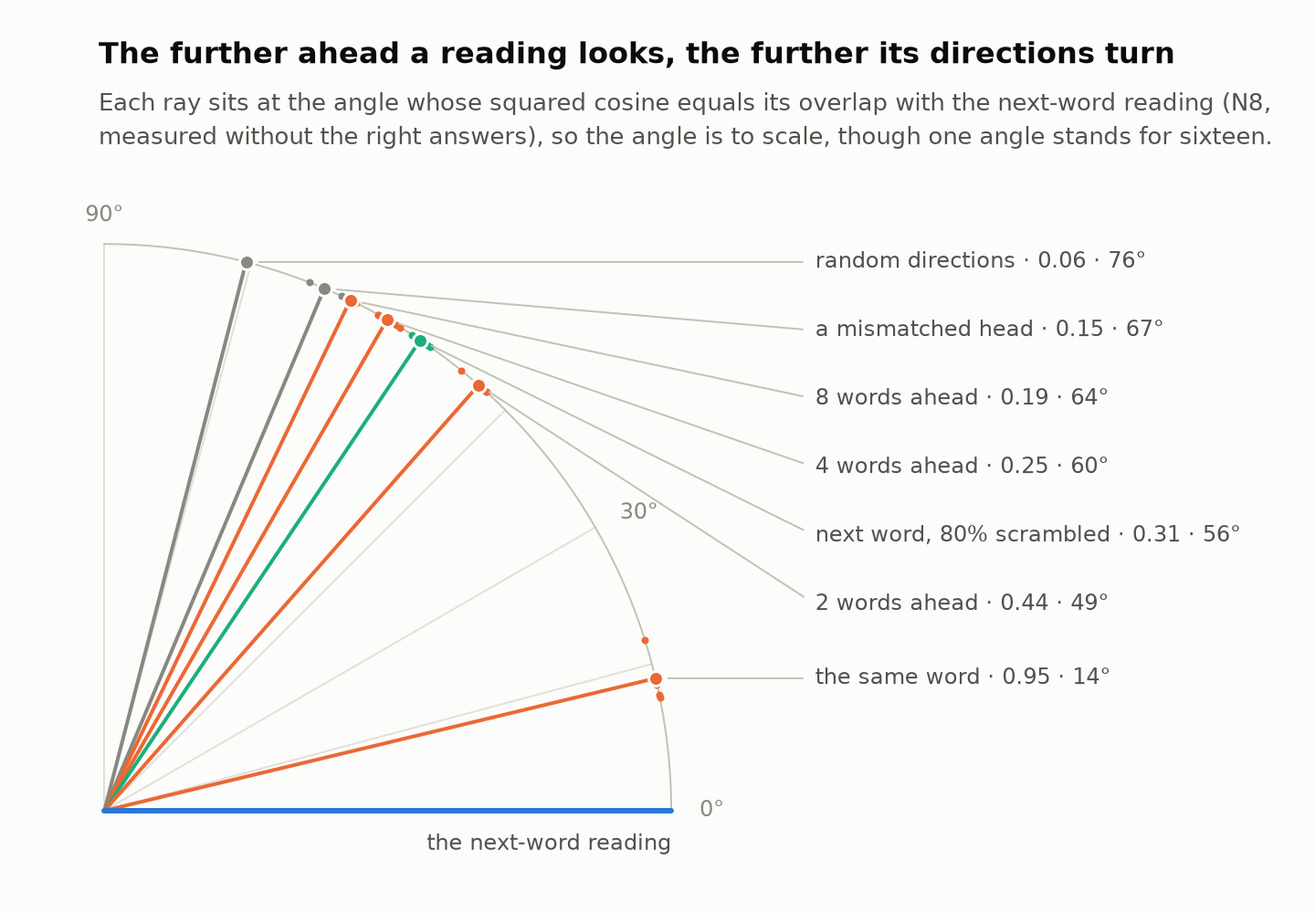
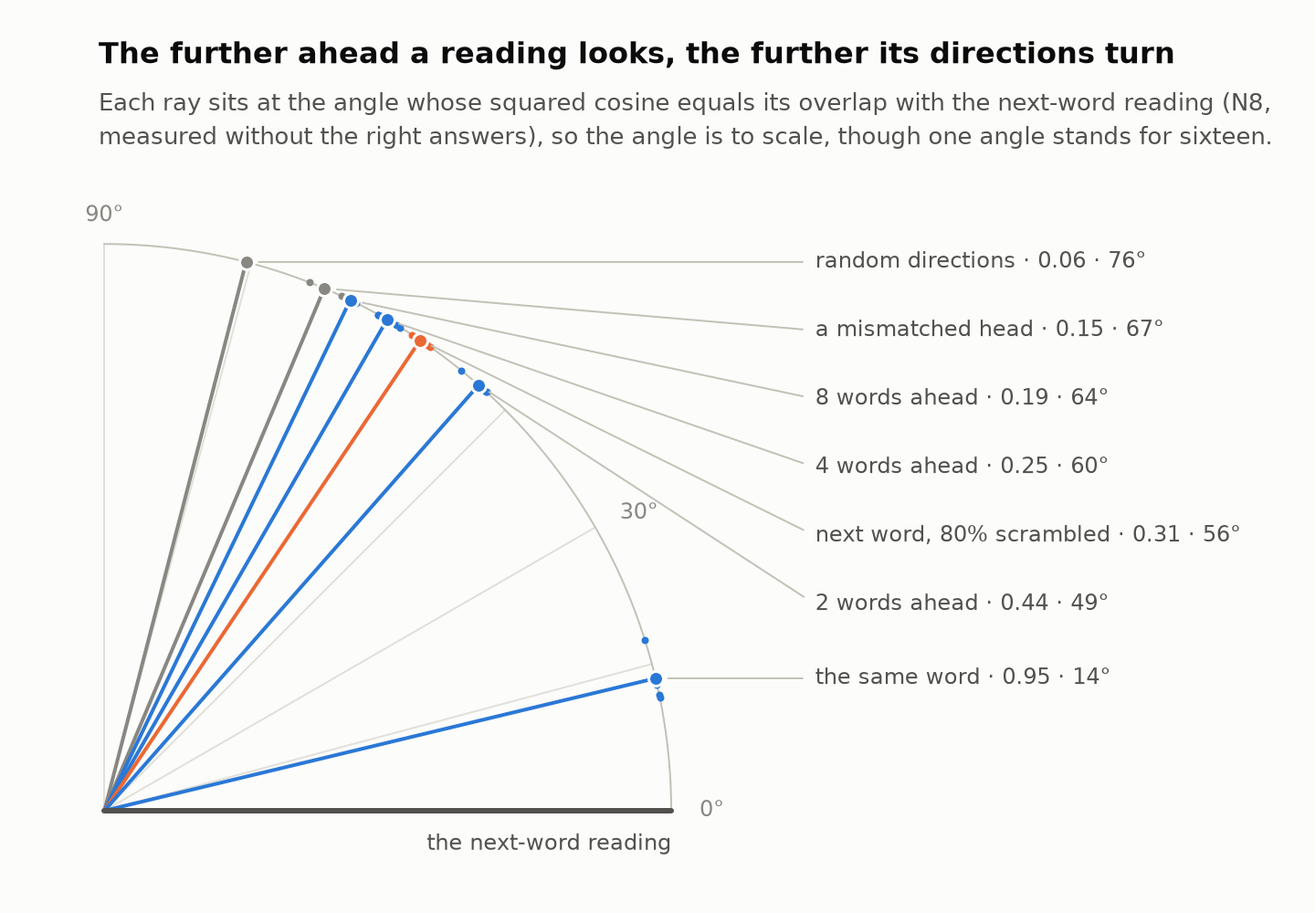
Correct figures 4 to 10 after a fresh reader's check; show them in the README
A fresh reader checked the new figures against the notes. Corrections:

- Figure 5: only G1, G1c and G1d added a control signal into the flow;
  N2's model had none. The bend and per-reading pull "differed only
  slightly", as the notes say, not "did not differ".
- Figure 4: scoped to the budget it was measured at, with the
  full-budget gap (1.10 nats) and the paper's refuted claims stated.
- Figure 8: no longer says the scrambled answers took back "most of the
  loop's cost"; N18 cannot say how much of that step is the loop
  tempered, and step sizes depend on their order.
- Figure 7: d is now computed within each run, as n18_analyze.py does
  (-0.181, -0.290, -0.457, matching N18_RESULTS.md) and marked S8,
  secondary. The loop-free line is "genuine answers at 20% to 1.25% of
  positions". The title no longer runs off the image.
- Figure 9: "verdicts in the ledger's main rows", naming what the
  ledger leaves out. Verdict words are mapped explicitly, and an
  unknown word or a range of tests now stops the script.
- Figure 10: the paper's refuted claims get a piece, modal words are
  kept ("not needed, by this test"), N10 and N11 join the N7-N9 piece,
  the N14 piece names N14a, half pieces are drawn half-filled, and the
  tilted pieces no longer run off the board. Threads 3 and 4 no longer
  misstate N2's setup or call the clean-head judge a remedy.
- Figure 6 uses figure 1's colours.

README: the seven figures, in light and dark versions, at the end of
[…]

diff --git a/experiments/simultaneity-conjecture/make_figures.py b/experiments/simultaneity-conjecture/make_figures.py
@@ -202,6 +202,11 @@ def judge_data():
     return out
 
 
+def d_within(J, a):
+    """N18's d (S8): within each run, F minus the loop-free line through that run's rungs at the judge's x; the mean over runs."""
+    return st.mean(J[s][a]['F'] - line_at(sorted((J[s][r]['x'], J[s][r]['F']) for r, _ in LINE), J[s][a]['x']) for s in SEEDS12)
+
+
 def line_at(pts, xv):
     """The loop-free line through the rung means, read at x (None outside it)."""
     for (x0, y0), (x1, y1) in zip(pts, pts[1:]):
@@ -215,9 +220,16 @@ KIND = {'supported': ('good', '✓', 'Supported'), 'refuted': ('critical', '✕'
 CHAPTERS = ('The paper', 'Ch. 1: the flow', 'Ch. 2: directions', 'Ch. 3: different or harder', 'Ch. 4: scrambled answers, the judge')
 
 
+VERDICT_WORDS = (('untestable', 'untestable'), ('refuted', 'refuted'), ('supported', 'supported'), ('inconclusive', 'inconclusive'),
+                 ('intermediate', 'unclear'), ('size unclear', 'unclear'))
+
+
 def kind_of(verdict):
     v = verdict.lower()
-    return next((k for k in ('untestable', 'refuted', 'supported', 'inconclusive') if k in v), 'unclear')
+    for word, kind in VERDICT_WORDS:
+        if word in v:
+            return kind
+    raise ValueError(f'a verdict make_figures.py does not know how to draw: {verdict!r}')
 
 
 def chapter_of(test):
@@ -230,22 +242,27 @@ def chapter_of(test):
 
 
 def ledger_data():
-    """(test, kind) in the ledger's order. A row naming two tests counts for each; N15, withdrawn, is kept as None."""
+    """(test, kind) in the ledger's order, and the tests taken from a note because the ledger lacks them. A row naming
+    two tests counts for each; N15, withdrawn, is kept as None."""
     section = (HERE / 'CRITICAL_REVIEW.md').read_text().split('## The ledger', 1)[1].split('\n## ', 1)[0]
     rows = []
     for line in section.splitlines():
         cells = [x.strip() for x in line.strip().strip('|').split('|')]
-        if len(cells) < 4 or not re.match(r'(WikiText|T\d|G1|N\d)', cells[0]):
+        if len(cells) < 4 or not re.match(r'(WikiText|T\d|G\d|N\d)', cells[0]):
             continue
         bold = re.search(r'\*\*(.+?)\*\*', cells[-1])
         name = {'WikiText-2 replication': 'WT-2', 'WikiText-103': 'WT-103'}.get(cells[0], cells[0])
+        if '–' in name or '-' in name.replace('WT-', ''):
+            raise ValueError(f'a ledger row naming a range of tests: {name!r}; list them, separated by commas')
         rows += [(t, kind_of(bold.group(1) if bold else cells[-1])) for t in name.split(', ')]
+    added = []
     if 'N18a' not in dict(rows):
         rows.append(('N18a', kind_of(re.search(r'\*\*N18a: (\w+)', (HERE / 'N18_NOTE.md').read_text()).group(1))))
+        added.append('N18a')
     if 'N15' not in dict(rows):
         at = max(i for i, (t, _) in enumerate(rows) if t.startswith('N14')) + 1
         rows.insert(at, ('N15', None))
-    return rows
+    return rows, added
 
 
 # ------------------------------------------------------------------ figures
@@ -415,15 +432,15 @@ def fig_shortcut(c, d):
     ax.set_yticks(ys); ax.set_yticklabels([r[1] for r in rows])
     ax.get_yticklabels()[0].set_fontweight('bold')
     ax.set_xlabel('Loss gap on held-out text (nats)', color=c['ink2'], fontsize=9.5)
-    titles(fig, c, 'Most of the paper\'s gap came from a training shortcut',
-           'Model A against the baseline at a tenth of the WikiText-103 budget, five-run means (T1). The first\nthree pieces add up to the whole gap; the missing weights are a separate contrast.')
+    titles(fig, c, 'Most of Model A\'s gap at this budget came from the training shortcut',
+           'Model A against the baseline at a tenth of the WikiText-103 budget, five-run means (T1); at the full\nbudget the gap was 1.10 nats. The first three pieces add up to the whole gap; the missing weights\nare a separate contrast. The paper\'s refuted claims stay refuted.')
     return fig
 
 
 def fig_flow(c, d):
     rows = (('G1', 'Curvature (G1)'), ('N2', 'Pull, per reading (N2)'), ('G1c', 'Pull, whole state (G1c)'))
     fig, ax = figure(c, h=3.6)
-    fig.subplots_adjust(left=0.24, right=0.96, top=0.7, bottom=0.17)
+    fig.subplots_adjust(left=0.24, right=0.96, top=0.64, bottom=0.17)
     ax.set_xscale('log', base=2); ax.set_xlim(0.9, 12); ax.set_ylim(2.6, -0.6)
     ax.axvspan(0.9, 1.25, color=c['critical'], alpha=0.08, linewidth=0, zorder=0)
     for v, s, ha in ((1.25, 'refuted below 1.25 ', 'right'), (2, ' predicted 2', 'left')):
@@ -436,15 +453,15 @@ def fig_flow(c, d):
     ax.spines['left'].set_visible(False)
     ax.set_xticks([1, 2, 4, 8]); ax.set_xticklabels(['1×', '2×', '4×', '8×']); ax.minorticks_off()
     ax.set_xlabel('Ratio between the two readings, one dot per model (1 = no difference)', color=c['ink2'], fontsize=9.5)
-    titles(fig, c, 'Here, the flow\'s bend and per-reading pull did not differ as predicted',
-           f'Over the whole state the pull did differ, 4 to 10 times; capping it cost the farther task no more\nthan the nearer (G1d: {sgn(st.mean(d["G1d"]))} nats). With the control added into the flow, at a tenth of the training.')
+    titles(fig, c, 'The flow\'s bend and per-reading pull differed only slightly, not twice',
+           f'Over the whole state the pull did differ, 4 to 10 times (G1c); capping it cost the farther task no\nmore than the nearer (G1d: {sgn(st.mean(d["G1d"]))} nats). G1, G1c and G1d added a control signal into the\nflow; N2\'s model had none. All at a tenth of the training budget.')
     return fig
 
 
 def fig_angles(c, data):
     ladder, noisy, rand, rotated = data
-    items = [('the same word', ladder[1], c['s2']), ('2 words ahead', ladder[2], c['s2']), ('4 words ahead', ladder[4], c['s2']),
-             ('8 words ahead', ladder[8], c['s2']), ('next word, 80% scrambled', noisy, c['s3']),
+    items = [('the same word', ladder[1], c['s1']), ('2 words ahead', ladder[2], c['s1']), ('4 words ahead', ladder[4], c['s1']),
+             ('8 words ahead', ladder[8], c['s1']), ('next word, 80% scrambled', noisy, c['s2']),
              ('a mismatched head', rotated, c['muted']), ('random directions', [rand], c['muted'])]
     ang = lambda o: math.acos(math.sqrt(o))
     fig = plt.figure(figsize=(7.2, 5.0), dpi=DPI_DISPLAY)
@@ -458,7 +475,7 @@ def fig_angles(c, data):
             ax.text(1.05 * math.cos(r), 1.05 * math.sin(r), f'{deg}°', color=c['muted'], fontsize=8.5, ha='left' if deg < 90 else 'center', va='center')
     t = np.linspace(0, math.pi / 2, 200)
     ax.plot(np.cos(t), np.sin(t), color=c['axis'], linewidth=1 * PX, zorder=1)
-    ax.plot([0, 1], [0, 0], color=c['s1'], linewidth=3 * PX, solid_capstyle='round', zorder=3)
+    ax.plot([0, 1], [0, 0], color=c['ink2'], linewidth=3 * PX, solid_capstyle='round', zorder=3)
     ax.text(1.0, -0.04, 'the next-word reading', color=c['ink2'], fontsize=8.5, ha='right', va='top')
     fig.canvas.draw()
     to_fig = lambda x, y: fig.transFigure.inverted().transform(ax.transData.transform((x, y)))
@@ -482,14 +499,14 @@ def fig_angles(c, data):
 
 def fig_judges(c, J):
     fig, ax = figure(c, h=5.2)
-    fig.subplots_adjust(left=0.1, right=0.97, top=0.79, bottom=0.12)
+    fig.subplots_adjust(left=0.1, right=0.97, top=0.77, bottom=0.12)
     m = lambda a, k: st.mean(J[s][a][k] for s in SEEDS12)
     pts = [(m(a, 'x'), m(a, 'F')) for a, _ in LINE]
     ax.set_xlim(-0.03, 0.88); ax.set_ylim(-1.4, 1.3)
     ax.axhline(0, color=c['axis'], linewidth=1 * PX, zorder=1)
     lab = dict(color=c['ink2'], fontsize=8.5)
     ax.plot(*zip(*pts), color=c['ink2'], linewidth=2 * PX, solid_joinstyle='round', zorder=2,
-            label='Full weight on 20% to 1.25% of genuine answers: the loop-free line')
+            label='The loop-free line: full weight, genuine\nanswers at 20% to 1.25% of positions')
     ax.scatter(*zip(*pts), s=(6 * PX) ** 2, color=c['ink2'], zorder=3)
     for (x, y), (_, s) in zip(pts, LINE):
         ax.text(x + 0.012, y + 0.05, s, ha='left', va='bottom', **lab)
@@ -502,7 +519,7 @@ def fig_judges(c, J):
             ax.plot([x, x], [ln, y], color=c['muted'], linewidth=1 * PX, zorder=1)
         ax.scatter([J[s][a]['x'] for s in SEEDS12], [J[s][a]['F'] for s in SEEDS12], s=(4 * PX) ** 2, color=col, alpha=c['faint'], linewidths=0, marker=mk, zorder=3)
         ax.scatter([x], [y], s=(9 * PX) ** 2, color=col, edgecolors=c['surface'], linewidths=2 * PX, marker=mk, zorder=4)
-    d = lambda a: m(a, 'F') - line_at(pts, m(a, 'x'))
+    d = lambda a: d_within(J, a)
     lead = dict(arrowstyle='-', color=c['muted'], linewidth=1 * PX, shrinkA=2, shrinkB=6)
     ax.text(m('rw-oracle', 'x') + 0.02, m('rw-oracle', 'F'), 'the clean head judges (N16)', va='center', **lab)
     for i, (a, txt) in enumerate((('rw-ctwin', f'weighted by a loop-free twin · d = {sgn(d("rw-ctwin"), 2)}'),
@@ -517,8 +534,8 @@ def fig_judges(c, J):
     ax.legend(loc='lower left', frameon=False, fontsize=8.5, labelcolor=c['ink2'], handletextpad=0.4, borderaxespad=0.6)
     ax.set_xlabel('The judge\'s own loss gap behind the clean head (nats)', color=c['ink2'], fontsize=9.5)
     ax.set_ylabel('Share of the shortfall its head recovered', color=c['ink2'], fontsize=9.5)
-    titles(fig, c, 'On genuine answers alone, the self-weighting judge fell furthest below the line',
-           'Five-run means (N18); faint marks are the runs. d is each judge\'s distance below the line. The\nloop-free twin fell below it too, by less. The peer\'s judge also weights itself, on scrambled answers.')
+    titles(fig, c, 'The self-weighting judge fell furthest below the loop-free line',
+           'Five-run means (N18); faint marks are the runs. d is the distance below the line within each run (S8,\nsecondary). The loop-free twin fell below it too, by less. The peer\'s judge also weights itself, on\nscrambled answers; the self-weighting judge trained on genuine answers only.')
     return fig
 
 
@@ -542,14 +559,15 @@ def fig_steps(c, J):
         t.set_fontweight('bold')
     ax.set_xlabel('Head B\'s gap behind the clean head on the genuine answers (Δ_A, nats)', color=c['ink2'], fontsize=9.5)
     titles(fig, c, f'On genuine answers alone, the loop cost about twice the peer\'s gap',
-           f'Five-run means (N18). The peer\'s gap: {peer:.2f} − {j20:.2f} = {peer - j20:.2f} nats. The run does not show that the\npeer\'s own gap is the loop\'s: adding the scrambled answers took most of the loop\'s cost back.')
+           f'Five-run means (N18). The peer\'s gap: {peer:.2f} − {j20:.2f} = {peer - j20:.2f} nats. Each step\'s size depends on\nthe steps before it. Adding the scrambled answers lowered the gap by {cl - peer:.2f} nats; N18 cannot\nsay how much of that is the loop tempered, nor that the peer\'s own gap is the loop\'s.')
     return fig
 
 
-def fig_ledger(c, rows):
-    fig = plt.figure(figsize=(7.2, 3.6), dpi=DPI_DISPLAY)
+def fig_ledger(c, led):
+    rows, added = led
+    fig = plt.figure(figsize=(7.2, 3.8), dpi=DPI_DISPLAY)
     fig.patch.set_facecolor(c['surface'])
-    ax = fig.add_axes([0.03, 0.03, 0.94, 0.6])
+    ax = fig.add_axes([0.03, 0.03, 0.94, 0.55])
     ax.axis('off')
     n = max(sum(chapter_of(t) == g for t, _ in rows) for g in range(len(CHAPTERS)))
     ax.set_xlim(-13.2, n + 0.2); ax.set_ylim(len(CHAPTERS) * 1.3, -0.2); ax.set_aspect('equal'); ax.set_anchor('N')
@@ -566,7 +584,7 @@ def fig_ledger(c, rows):
             ax.text(i + 0.45, y, glyph, color='#0b0b0b' if k == 'unclear' else '#ffffff', fontsize=8, fontweight='bold', ha='center', va='center')
     counts = {k: sum(kk == k for _, kk in rows) for k in KIND}
     renderer = fig.canvas.get_renderer()
-    x, y = 0.075, 0.735
+    x, y = 0.075, 0.69
     for k, (col, glyph, name) in KIND.items():
         t = fig.text(x + 0.02, y, f'{glyph} {name} · {counts[k]}', color=c['ink2'], fontsize=8.5, va='center')
         w = t.get_window_extent(renderer).width / fig.bbox.width
@@ -575,23 +593,24 @@ def fig_ledger(c, rows):
             t.set_position((x + 0.02, y))
         fig.patches.append(plt.Rectangle((x, y - 0.013), 0.014, 0.026, transform=fig.transFigure, facecolor=c[col], edgecolor='none'))
         x += 0.02 + w + 0.03
-    titles(fig, c, f'{sum(counts.values())} preregistered verdicts, in order',
-           'Every verdict in CRITICAL_REVIEW.md\'s ledger, with N18a; a row naming two tests counts for each.\nN15, withdrawn before its real run, is drawn hollow and not counted.')
+    extra = f', with {" and ".join(added)} from {"its note" if len(added) == 1 else "their notes"}' if added else ''
+    titles(fig, c, f'{sum(counts.values())} verdicts in the ledger\'s main rows, in order',
+           f'The main claims in CRITICAL_REVIEW.md\'s ledger{extra}; secondary claims and T1\'s rivals are in the\nnotes. A row naming two tests counts for each. WT-2 is "mostly refuted". N15, withdrawn before its\nreal run, is drawn hollow and not counted.')
     return fig
 
 
 # The imagined jigsaw: each piece a finding (glued where its verdict decided something, half where it decided part,
 # loose where it did not), the empty centre the project's starting idea, and four imagined threads. Nothing here is measured.
-PIECES = {(0, 0): ('The shortcut, not the design', 'T1', 'glued'), (0, 1): ('The flow differs a little, not twice', 'G1, N2', 'glued'),
-          (0, 2): ('The flow’s pull: real, not needed', 'G1c, G1d', 'glued'), (0, 3): ('A fixed shift suffices to switch', 'N1', 'glued'),
+PIECES = {(0, 0): ('The paper refuted; the gap mostly the shortcut', 'WT-2, WT-103, T1', 'glued'), (0, 1): ('The flow differs a little, not twice', 'G1, N2', 'glued'),
+          (0, 2): ('The flow’s pull: real; not needed, by this test', 'G1c, G1d', 'glued'), (0, 3): ('A fixed shift suffices to switch', 'N1', 'glued'),
           (1, 0): ('Sharing directions costs accuracy', 'N4', 'glued'), (1, 3): ('Why apart? a competition?', 'N5', 'loose'),
-          (2, 0): ('Further ahead, more separate', 'N6r', 'glued'), (2, 3): ('Not a noisy copy: a different reading', 'N7–N9', 'glued'),
-          (3, 0): ('The remedy weighs each answer', 'N12, N13', 'glued'), (3, 1): ('Directions follow accuracy?', 'N14, N16d', 'loose'),
+          (2, 0): ('Further ahead, more separate', 'N6r', 'glued'), (2, 3): ('Not a noisy copy: a different reading', 'N7–N11', 'glued'),
+          (3, 0): ('The remedy weighs each answer', 'N12, N13', 'glued'), (3, 1): ('Directions follow accuracy?', 'N14a, N16d', 'loose'),
           (3, 2): ('Who judges matters', 'N16', 'glued'), (3, 3): ('A judge that grades itself', 'N17, N18', 'half')}
 THREADS = (((2, 0), 'C', 'Two readings already behave a little like separate voices: the further ahead a reading looks, the less its directions overlap the next-word reading’s, and forcing them together costs accuracy. A many-voiced model might hold each voice in directions of its own.'),
            ((2, 3), (3, 3), 'A head trained on scrambled answers came to read differently, not as a noisy copy of the right reading; a judge that weights its own training is a head shaping its own answers. Perhaps the two are one phenomenon seen twice.'),
-           ((0, 1), (1, 0), 'At this scale, with the control added into the flow, the readings did not show in how the flow bends or how fast it pulls along each reading’s directions. If they live anywhere here, it may be in which directions each one uses.'),
-           ((3, 2), 'C', 'The best remedy tested let the clean head judge which answers were genuine (N16), and a judge weighting its own training did harm (N18a); whether independence or accuracy helped is not separated. Perhaps many readings could check one another.'))
+           ((0, 1), (1, 0), 'At this scale the flow’s bend and per-reading pull differed only slightly (G1, N2), and its 4- to 10-fold difference in whole-state pull was not needed (G1c, G1d). If the readings live anywhere here, it may be in which directions each one uses.'),
+           ((3, 2), 'C', 'With the clean head as judge, a diagnostic rather than a method, the shortfall closed (N16); a judge weighting its own training did harm when it trained on genuine answers alone (N18a). Whether independence or accuracy helped is not separated. Perhaps many readings could check one another.'))
 
 
 def mix(a, b, t):
@@ -605,8 +624,8 @@ def fig_jigsaw(c):
     W, H = gx * 2 + cell * 4, gy * 2 + ch * 4
     fig = plt.figure(figsize=(7.2, 9.4), dpi=DPI_DISPLAY)
     fig.patch.set_facecolor(c['surface'])
-    ax = fig.add_axes([0.07, 0.325, 0.86, 0.86 * 7.2 / 9.4 * H / W])
-    ax.set_xlim(0, W); ax.set_ylim(H, 0); ax.axis('off')   # y runs down the board
+    ax = fig.add_axes([0.07, 0.31, 0.86, 0.86 * 7.2 / 9.4 * (H + 34) / (W + 28)])
+    ax.set_xlim(-14, W + 14); ax.set_ylim(H + 26, -8); ax.axis('off')   # y runs down the board; the margin holds the tilted pieces
     h = [[1, -1, 1, -1], [-1, 1, -1, 1], [1, 1, -1, -1]]   # knob directions between rows, then between columns
     v = [[1, -1, 1], [-1, 1, -1], [1, -1, 1], [-1, 1, -1]]
 
@@ -629,7 +648,7 @@ def fig_jigsaw(c):
         verts.append((x, y)); codes.append(MPath.CLOSEPOLY)
         return MPath([place(p) for p in verts], codes)
 
-    glued = mix(c['surface'], c['ink'], 0.09)
+    glued, half = mix(c['surface'], c['ink'], 0.09), mix(c['surface'], c['ink'], 0.045)
     centres, words = {}, []
     for r in range(4):
         for col in range(4):
@@ -643,7 +662,7 @@ def fig_jigsaw(c):
             dxo = off * (1 if col > 1 else -1)
             place = lambda p, cx=cx, cy=cy, tilt=tilt, dxo=dxo, off=off: (cx + (p[0] - cx) * math.cos(tilt) - (p[1] - cy) * math.sin(tilt) + dxo,
                                                                          cy + (p[0] - cx) * math.sin(tilt) + (p[1] - cy) * math.cos(tilt) + off)
-            ax.add_patch(PathPatch(piece(r, col, place), facecolor=glued if state == 'glued' else c['surface'],
+            ax.add_patch(PathPatch(piece(r, col, place), facecolor={'glued': glued, 'half': half}.get(state, c['surface']),
                                    edgecolor=c['ink2'] if state == 'glued' else c['muted'], linewidth=(1.2 if state == 'glued' else 1.4) * PX))
             lines = textwrap.wrap(title, 16)
             centres[(r, col)] = (cx, cy, 62, (len(lines) * 16 + 16) / 2 + 8)
@@ -665,7 +684,7 @@ def fig_jigsaw(c):
         ax.scatter([s0[0], e0[0]], [s0[1], e0[1]], s=(5 * PX) ** 2, color=c['imagined'], linewidths=0, zorder=3)
         nums.append((0.25 * s0[0] + 0.5 * qx + 0.25 * e0[0], 0.25 * s0[1] + 0.5 * qy + 0.25 * e0[1]))
     for lines, tests, state, place, cx, cy, tilt in words:
-        halo = [pe.withStroke(linewidth=3, foreground=glued if state == 'glued' else c['surface'])]
+        halo = [pe.withStroke(linewidth=3, foreground={'glued': glued, 'half': half}.get(state, c['surface']))]
         y0 = cy - (len(lines) * 16 + 16) / 2 + 8
         for i, ln in enumerate(lines + [tests]):
             tx, ty = place((cx, y0 + i * 16 + (4 if i == len(lines) else 0)))
@@ -685,13 +704,13 @@ def fig_jigsaw(c):
         fig.text(0.075, y, wrapped, color=c['ink2'], fontsize=8.5, va='top', linespacing=1.35)
         y -= 0.0172 * (wrapped.count('\n') + 1) + 0.013
     titles(fig, c, 'Imagined: the findings as a jigsaw, the centre still empty',
-           'Not a result. A piece is glued where its verdict decided something, tilted where it decided part or\nnothing; untestable verdicts have no piece. The violet threads are imagined connections.')
+           'Not a result. Each piece gathers the tests named on it: filled where they decided something,\nhalf-filled where they decided part, empty and tilted where they did not. The threads are imagined.')
     return fig
 
 
 def write_data(dist, acc, tb, sc, fl, jd, led):
     ladder, noisy, rand, rotated = dist
-    L = ['# Figure data', '', 'Every value plotted in the figures, by run. Generated by `make_figures.py` from the records in `results/` (T1\'s in `../too-linear-conjecture/results/t1/`) and, for figure 9, the ledger in `CRITICAL_REVIEW.md`. Figures 1 to 3 appear in the plain summary. Figure 10 is imagined and plots no measurement.', '',
+    L = ['# Figure data', '', 'Every value plotted in the figures, by run. Generated by `make_figures.py` from the records in `results/` (T1\'s in `../too-linear-conjecture/results/t1/`) and, for figure 9, the ledger in `CRITICAL_REVIEW.md` (with N18a\'s verdict from `N18_NOTE.md` until the ledger has it). Figures 1 to 3 appear in the plain summary. Figure 10 is imagined and plots no measurement.', '',
          '## Figure 1: the distance ladder', '',
          f'Target-free overlap of the directions head B and the next-word head A depend on (N8). Random directions, in theory: {rand:.4f}. '
          f'The deliberately mismatched head (N8\'s rotated control on N6r\'s same-word models): ' + ', '.join(f'{v:.3f}' for v in rotated) + '. '
@@ -745,14 +764,15 @@ def write_data(dist, acc, tb, sc, fl, jd, led):
     L += ['', '## Figures 7 and 8: N18\'s judges and steps', '',
           f'Seeds {SEEDS12[0]}–{SEEDS12[-1]}, from `results/n18/` (`m_*` where present, else `r_*`). x: the judge\'s plain cross-entropy on the '
           'genuine answers minus head A\'s (head A judging: 0; head B judging itself: its own Δ_A). F = (Δ_A(rw-b1) − Δ_A(arm)) / '
-          '(Δ_A(rw-b1) − Δ_A(sub20)). d: the mean F minus the loop-free line, through the rung means, at the mean x.', '',
+          '(Δ_A(rw-b1) − Δ_A(sub20)). d (S8, secondary): within each run, F minus the loop-free line through that run\'s five rungs at the judge\'s x, then the mean over runs, as `n18_analyze.py` computes it. The drawn drops run from the line through the rung means to the mean F.', '',
           '| Arm | x by run | F by run | Δ_A by run | Mean x | Mean F | Mean Δ_A | d |', '|---|---|---|---|---|---|---|---|']
     for a in [a for a, _ in LINE] + list(JUDGED):
-        dd = line_at(pts, jm(a, 'x')) if a in ('rw-ctwin', 'rw-peer', 'rw-cloop') else None
+        dd = d_within(jd, a) if a in ('rw-ctwin', 'rw-peer', 'rw-cloop') else None
         L.append(f'| `{a}` | ' + ', '.join(f'{jd[s][a]["x"]:.3f}' for s in SEEDS12) + ' | ' + ', '.join(f'{jd[s][a]["F"]:+.3f}' for s in SEEDS12) + ' | '
                  + ', '.join(f'{jd[s][a]["dA"]:.3f}' for s in SEEDS12) + f' | {jm(a, "x"):.3f} | {jm(a, "F"):+.3f} | {jm(a, "dA"):.3f} | '
-                 + (f'{jm(a, "F") - dd:+.3f}' if dd is not None else '') + ' |')
-    L += ['', '## Figure 9: the ledger', '', 'In the ledger\'s order. N15 was withdrawn before its real run and is not counted.', '',
+                 + (f'{dd:+.3f}' if dd is not None else '') + ' |')
+    led, added = led
+    L += ['', '## Figure 9: the ledger', '', 'The main rows of the ledger, in its order' + (f', with {", ".join(added)} from its note' if added else '') + '. Secondary claims and T1\'s rivals are in the notes. N15 was withdrawn before its real run and is not counted.', '',
           '| Chapter | Tests and verdicts |', '|---|---|']
     for g, name in enumerate(CHAPTERS):
         L.append(f'| {name} | ' + ', '.join(f'{t} {KIND[k][2].lower() if k else "withdrawn"}' for t, k in led if chapter_of(t) == g) + ' |')

diff --git a/README.md b/README.md
@@ -24,6 +24,45 @@ This repository holds a January 2026 paper by Peter Jemley, the code behind it, 
 
 **Why it fell short** ([T1](experiments/too-linear-conjecture/T1_NOTE.md)). The block was trained with a memory-saving shortcut for computing its learning signal, the adjoint method. At a tenth of the training budget, where Model A trailed the ordinary transformer by 0.83 nats, training with the shortcut accounted for about 95% of the gap (0.79 nats). Trained with exact gradients, the model was 0.04 nats behind at that budget. So, at that budget, most of the loss gap came from how the model was trained, not from its design. T1 does not explain the latency or steering results, and the model has not been trained with exact gradients on the full budget.
 
+### In pictures
+
+Drawn by [`make_figures.py`](experiments/simultaneity-conjecture/make_figures.py): the first five from the saved records, with every plotted value by run in [`FIGURE_DATA.md`](experiments/simultaneity-conjecture/figures/FIGURE_DATA.md), and the sixth from the ledger in [`CRITICAL_REVIEW.md`](experiments/simultaneity-conjecture/CRITICAL_REVIEW.md). The tests behind them are described in the next section and in their notes; N18, the latest, is in [`N18_NOTE.md`](experiments/simultaneity-conjecture/N18_NOTE.md). The last figure is imagined: a picture of how the findings might fit together, not a result.
+
+<picture>
+  <source media="(prefers-color-scheme: dark)" srcset="experiments/simultaneity-conjecture/figures/shortcut_gap_dark.png">
+  <img src="experiments/simultaneity-conjecture/figures/shortcut_gap_light.png" width="720" alt="Horizontal bar chart. At a tenth of the WikiText-103 budget, Model A trailed the baseline by 0.83 nats. Training with exact gradients closed 0.79 of that; the continuous form cost 0.035 nats, size unclear, and reusing one block four times 0.007. Separately, losing one block's weights cost 0.020. A line marks the 0.05 margin.">
+</picture>
+
+<picture>
+  <source media="(prefers-color-scheme: dark)" srcset="experiments/simultaneity-conjecture/figures/flow_ratios_dark.png">
+  <img src="experiments/simultaneity-conjecture/figures/flow_ratios_light.png" width="720" alt="Dot plot on a doubling scale, one dot per model. The ratio between the two readings was 1.08 to 1.27 for the flow's curvature (G1) and 1.14 to 1.25 for its pull along each reading's directions (N2), against a prediction of 2 and a refutation threshold of 1.25. Over the whole state the pull differed 4.1 to 10.2 times (G1c).">
+</picture>
+
+<picture>
+  <source media="(prefers-color-scheme: dark)" srcset="experiments/simultaneity-conjecture/figures/angle_fan_dark.png">
+  <img src="experiments/simultaneity-conjecture/figures/angle_fan_light.png" width="720" alt="A quarter-circle fan of rays from a horizontal ray for the next-word reading. Each ray sits at the angle whose squared cosine is its overlap with the next-word reading: the same word 14 degrees, two words ahead 49, the next word with 80% scrambled answers 56, four words ahead 60, eight words ahead 64, a mismatched head 67, random directions 76.">
+</picture>
+
+<picture>
+  <source media="(prefers-color-scheme: dark)" srcset="experiments/simultaneity-conjecture/figures/judges_and_the_line_dark.png">
+  <img src="experiments/simultaneity-conjecture/figures/judges_and_the_line_light.png" width="720" alt="Scatter of the share of the shortfall each judge's head recovered against the judge's own loss gap. A descending loop-free line runs from 0.67 at 0.18 nats to minus 0.87 at 0.81 nats. The clean head as judge recovers 1.08. The loop-free twin sits 0.18 below the line, the peer 0.29 below, and the self-weighting judge, at 0.75 nats and minus 1.16, 0.46 below.">
+</picture>
+
+<picture>
+  <source media="(prefers-color-scheme: dark)" srcset="experiments/simultaneity-conjecture/figures/n18_steps_dark.png">
+  <img src="experiments/simultaneity-conjecture/figures/n18_steps_light.png" width="720" alt="Waterfall of head B's gap behind the clean head, in nats. The judge at full weight: 0.221. The weighting from a loop-free twin adds 0.093, the judge's own loop adds 0.224, and adding the scrambled answers takes away 0.209, ending at the peer's 0.330.">
+</picture>
+
+<picture>
+  <source media="(prefers-color-scheme: dark)" srcset="experiments/simultaneity-conjecture/figures/ledger_dark.png">
+  <img src="experiments/simultaneity-conjecture/figures/ledger_light.png" width="720" alt="A grid of 43 coloured squares, one for each verdict in the ledger's main rows, grouped by chapter: 19 supported, 10 refuted, 4 intermediate or of unclear size, 3 inconclusive and 7 untestable, with the withdrawn N15 drawn hollow.">
+</picture>
+
+<picture>
+  <source media="(prefers-color-scheme: dark)" srcset="experiments/simultaneity-conjecture/figures/imagined_jigsaw_dark.png">
+  <img src="experiments/simultaneity-conjecture/figures/imagined_jigsaw_light.png" width="720" alt="Imagined, not a result: a jigsaw of twelve pieces, each naming a finding and its tests, around an empty two-by-two centre labelled 'Several readings held at once: the idea, untested', with four numbered violet threads joining pieces and a caption for each.">
+</picture>
+
 ## What the later tests found
 
 The project's own aim, the author's, goes beyond the paper. When we listen to music we follow several voices at once; a reader likewise holds characters, arguments and tone together while the words arrive one at a time. The question is whether a model can hold its readings of a text that way, and whether continuous dynamics like the paper's block help it to. The tests in [`experiments/simultaneity-conjecture/`](experiments/simultaneity-conjecture/) start small: they ask how one model holds two readings at once, such as predicting the next word and the word after it, as a stand-in for the many strands a reader follows. They used the paper's Model A, trained with exact gradients on WikiText-103 at a tenth of the full budget with one learning rate: about 30 million parameters, or 23 to 43 million with two reading heads. Most of that is the tables that map words to vectors and back: in the base model, 25.7 of 30.5 million. The plan, the decision rules and the result that would count against each claim were fixed in advance. The readings tested are close relatives, words one to eight places ahead. What has survived testing so far:
